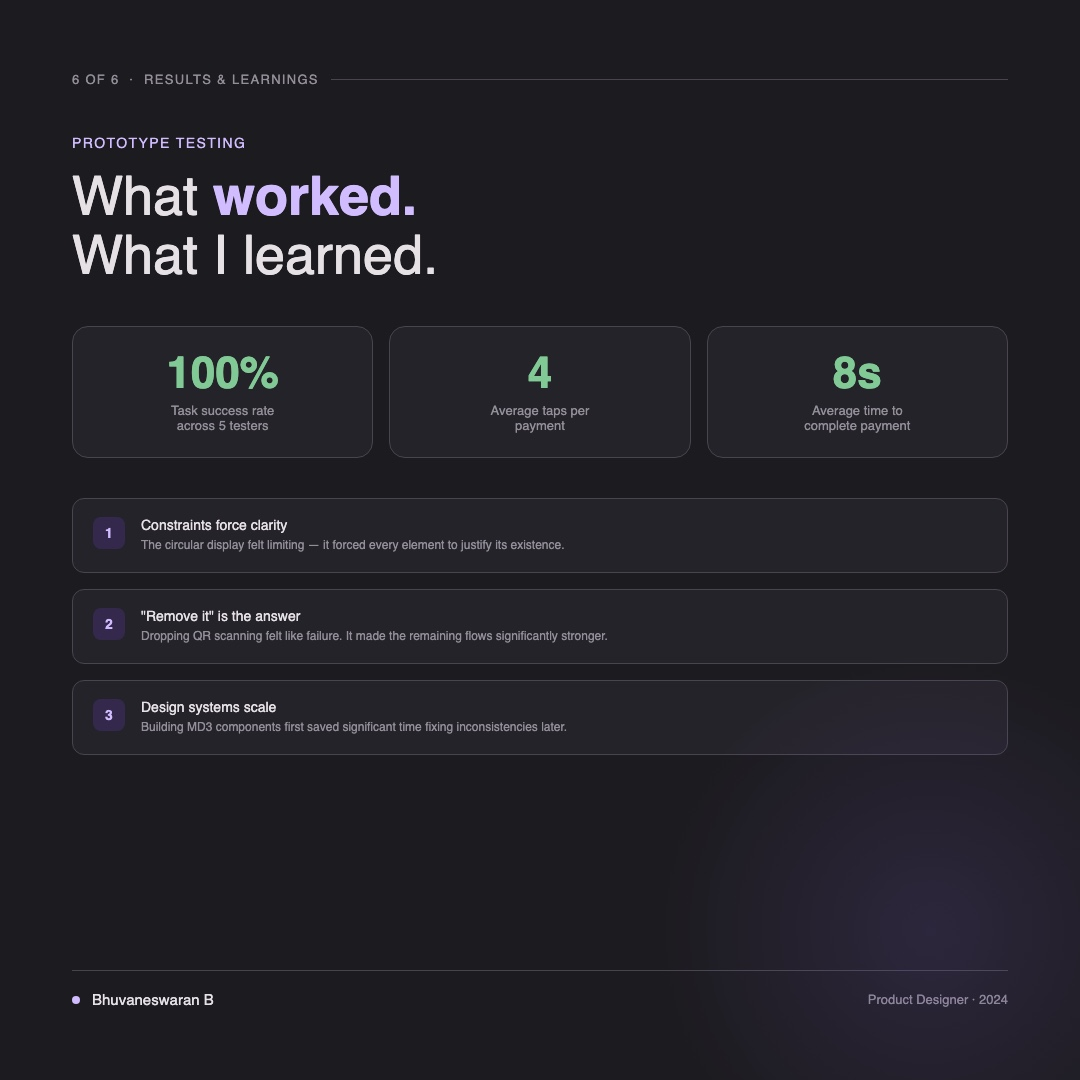
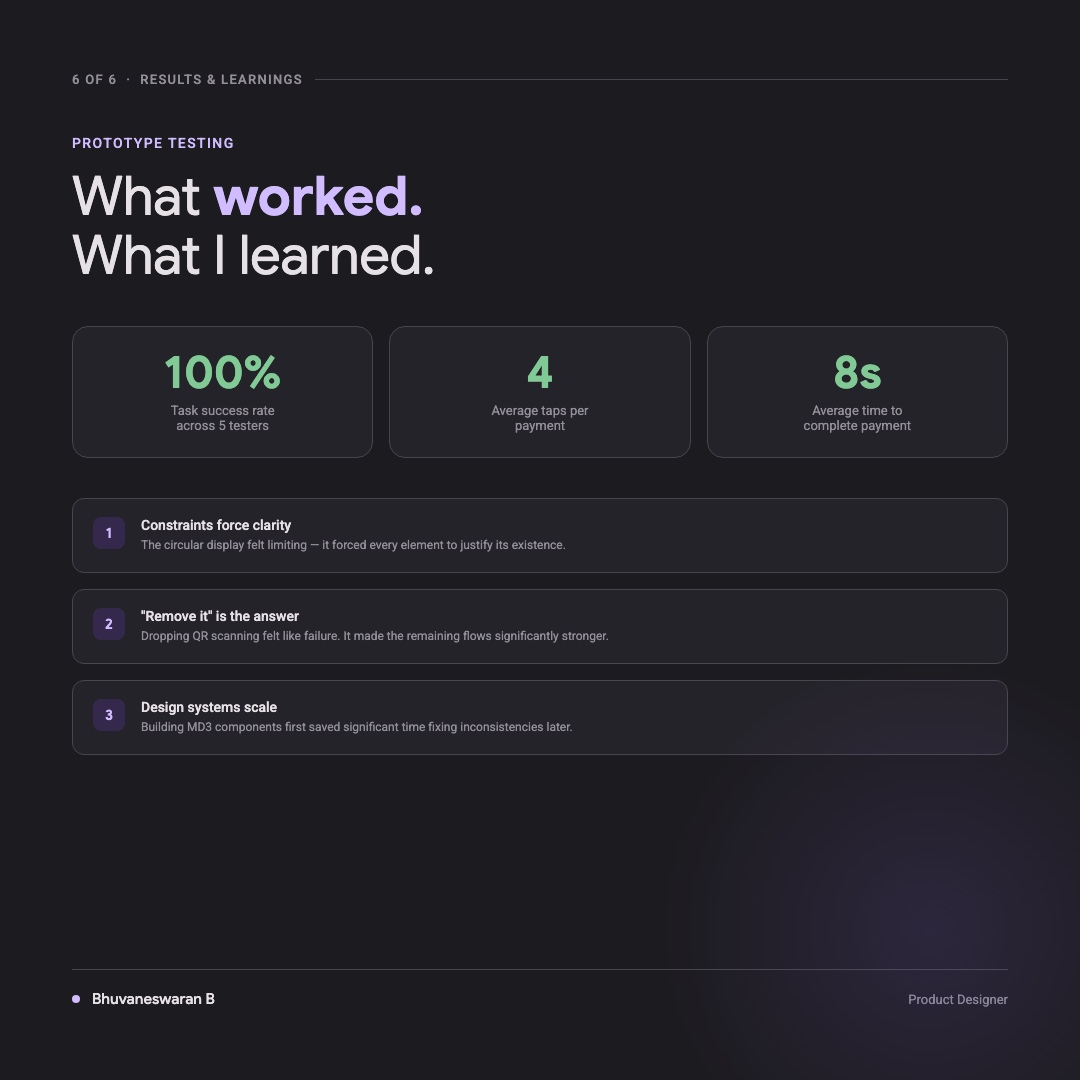
Fix carousel-01 brand overlap and remove year from carousel-06
carousel-01: 'Product Designer' label no longer floats right into
the watch image — sits inline next to the name.
carousel-06: Removed '2024' year from credit line.

diff --git a/linkedin/carousel-01.html b/linkedin/carousel-01.html
@@ -87,7 +87,7 @@
     color: #E6E1E5; letter-spacing: 0.02em;
   }
   .brand-role {
-    font-size: 13px; color: #938F99; margin-left: auto;
+    font-size: 13px; color: #938F99;
     letter-spacing: 0.05em;
   }
 

diff --git a/linkedin/carousel-06.html b/linkedin/carousel-06.html
@@ -143,7 +143,7 @@
 
   <div class="brand-credit">
     <span class="brand-credit-name"><span class="brand-dot"></span>Bhuvaneswaran B</span>
-    <span class="brand-credit-role">Product Designer · 2024</span>
+    <span class="brand-credit-role">Product Designer</span>
   </div>
 </div>
 </body>